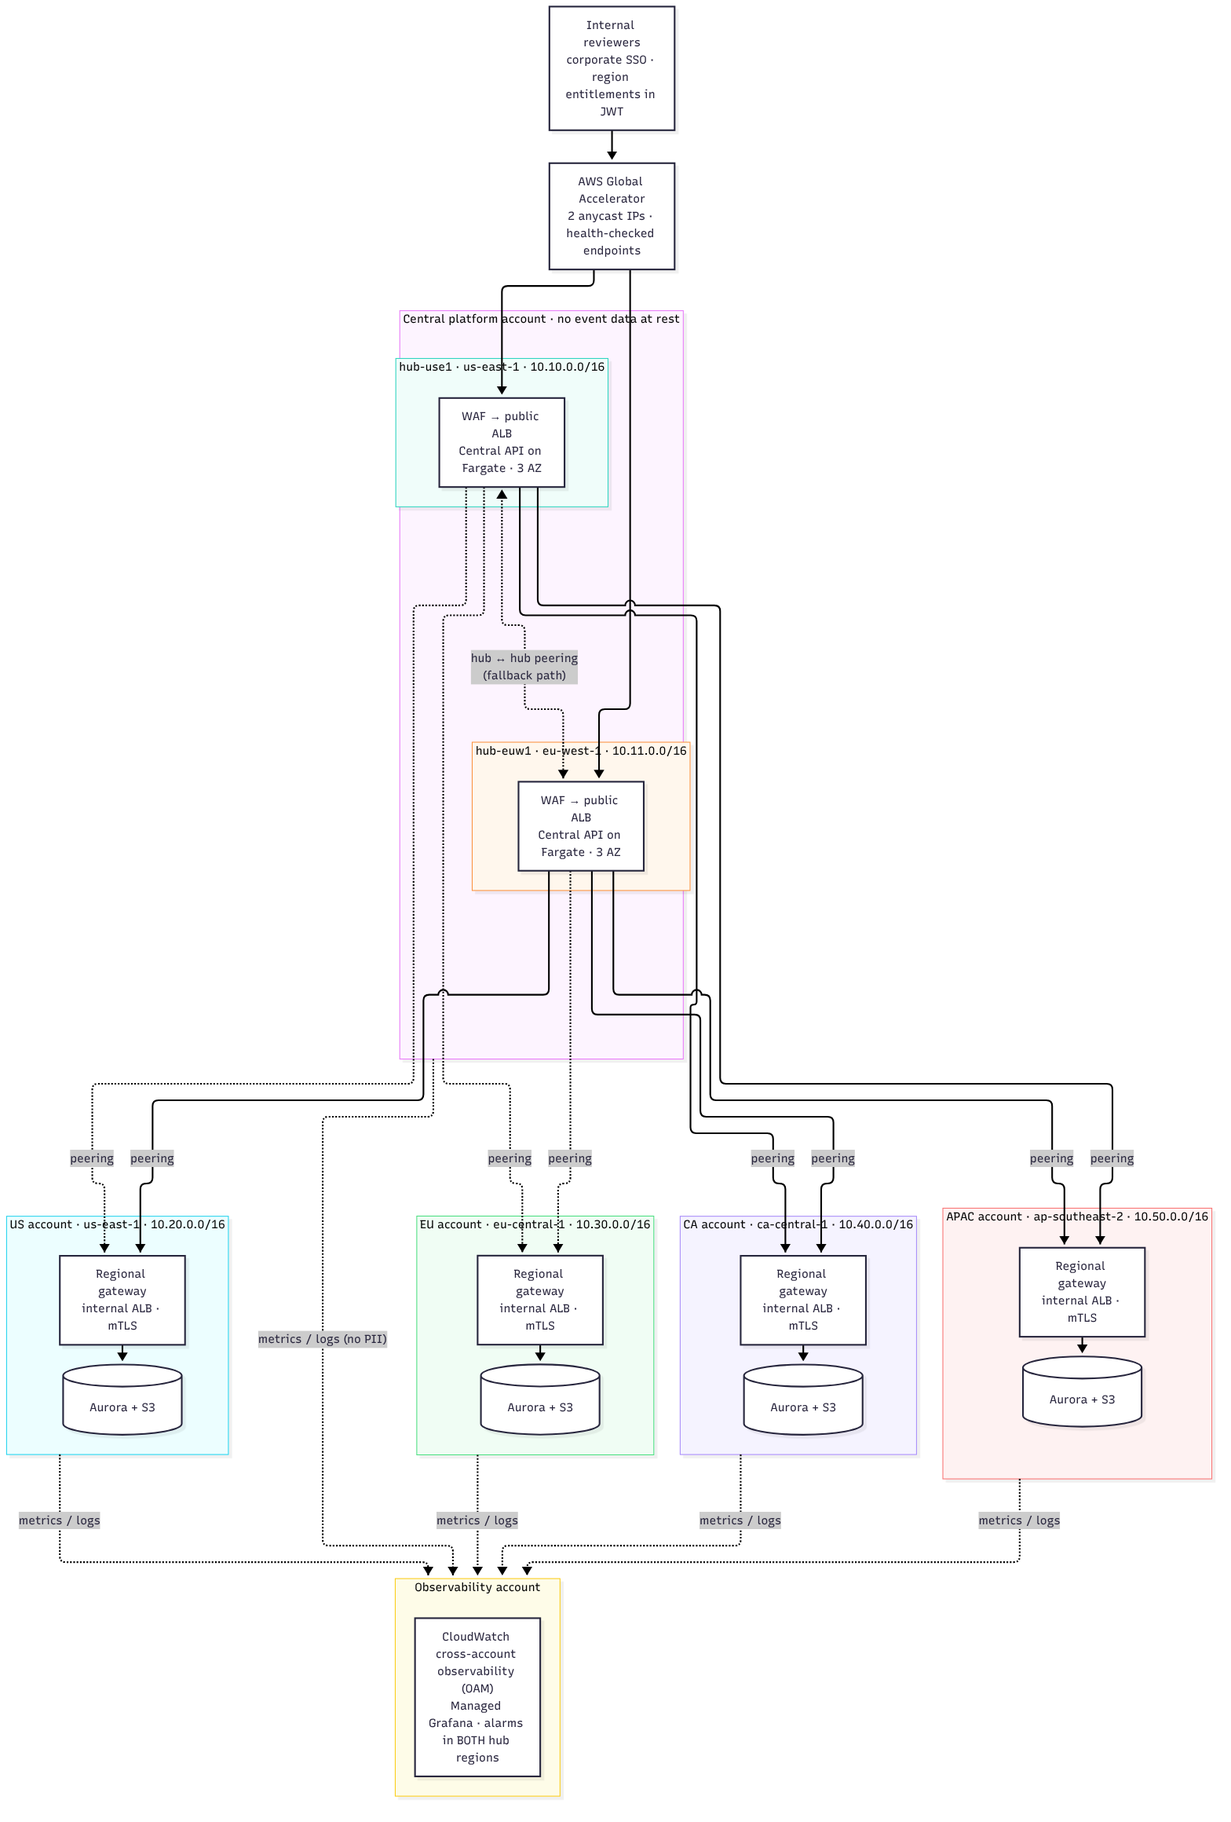
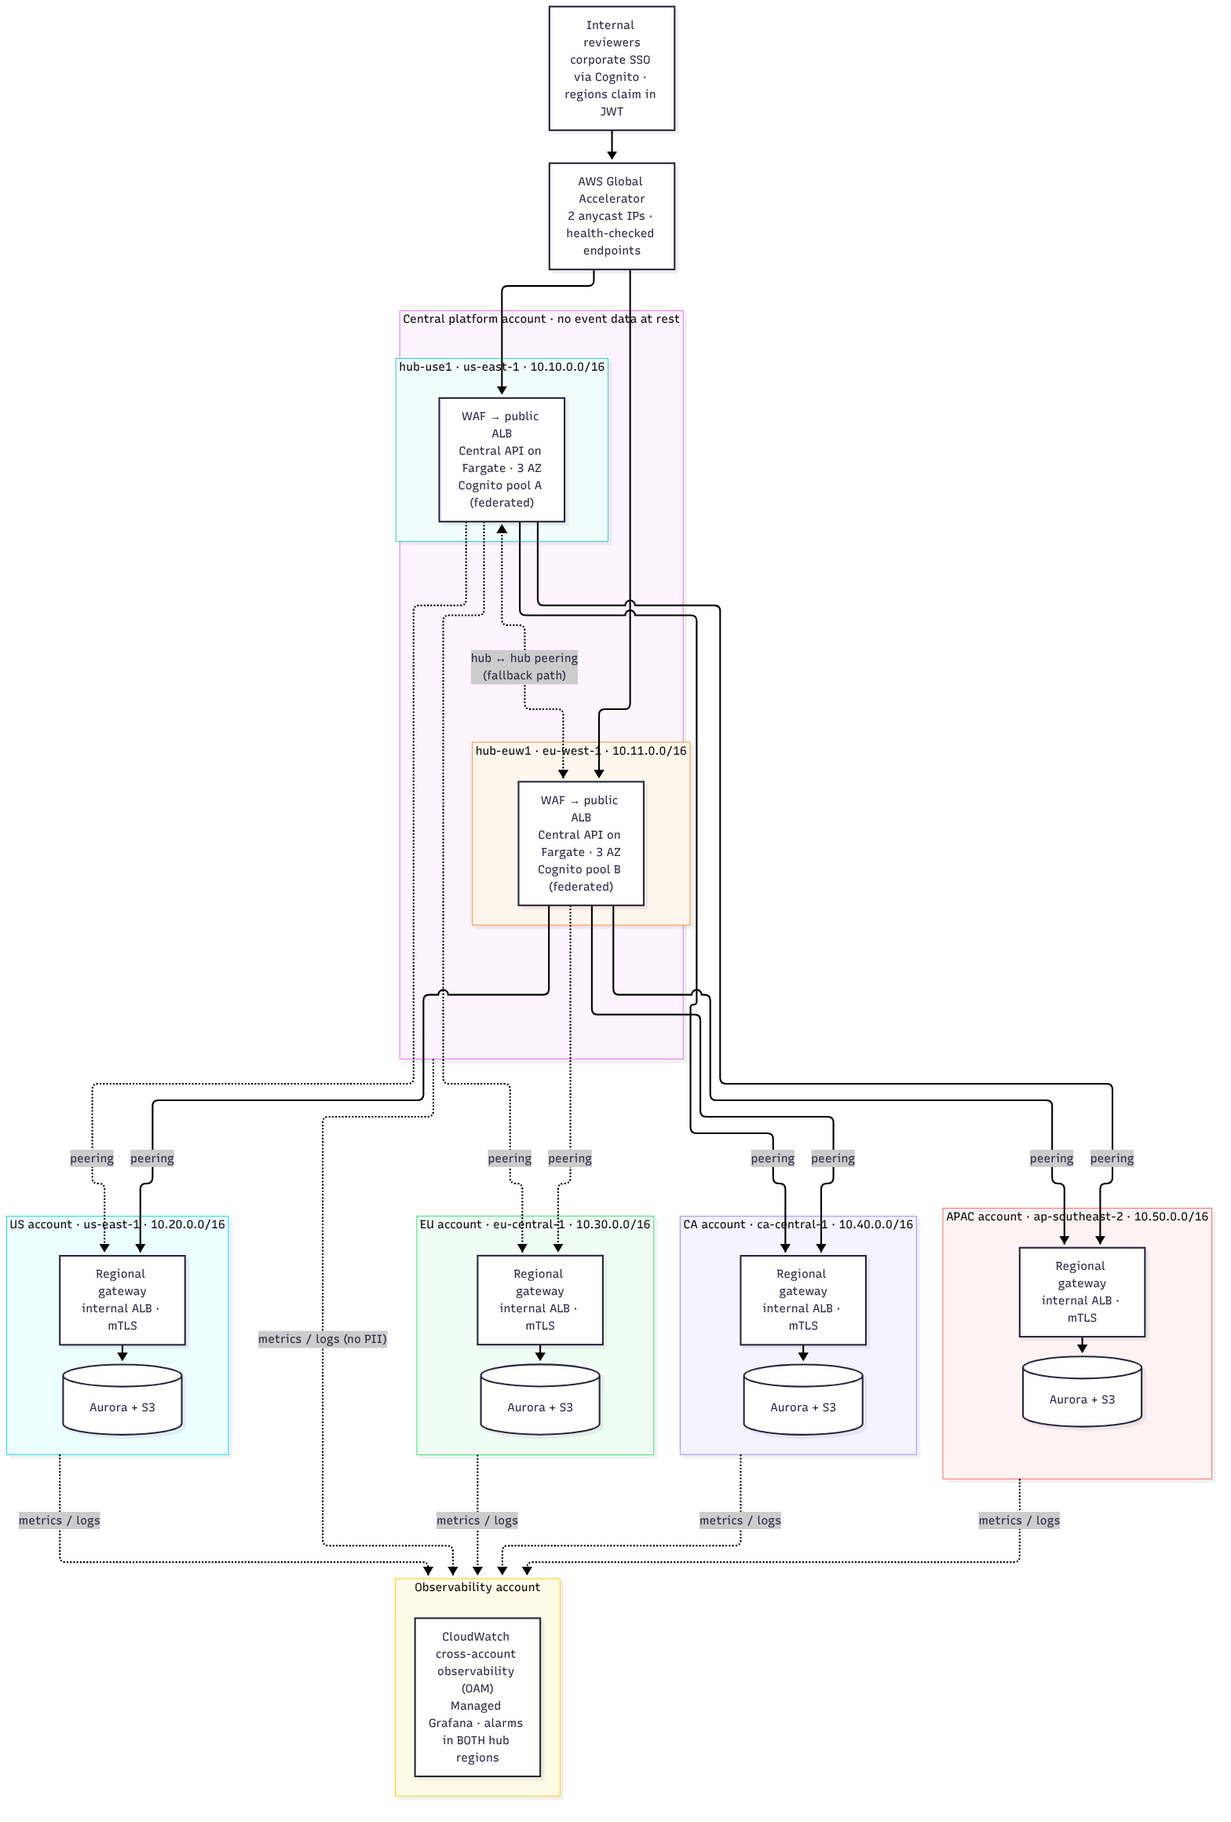
Identity: Cognito user pool per hub, federated to corporate IdP
Keeps the regional stacks' Cognito/JWT model while avoiding a single
identity region: tokens from either hub pool are accepted by both hubs
and all regional gateways. Global Accelerator + ALB stays as the front
door for six-nines failover. Adds ADR-0005; updates design doc,
diagrams, README and SG comments.

Changed region(s): [[0.3438, 0.2483, 0.4688, 0.3414], [0.4062, 0.4655, 0.5312, 0.5276], [0.4688, 0.031, 0.5312, 0.0621]]

diff --git a/docs/architecture.md b/docs/architecture.md
@@ -16,6 +16,7 @@ Internal teams need one place to review and rate edge-device events. The event d
 | What the center can reach | A regional gateway in an interconnect subnet, never the database | Keeps credentials, schema, authorization and audit inside the jurisdiction. Routes writes by construction. See [ADR-0002](adr/0002-regional-gateway-not-direct-db.md). |
 | Availability model | Two active-active stateless hubs, failure-oblivious retries, per-region degradation | Six nines is only reachable if no single region, path or deploy can cause an error a user sees. See [ADR-0003](adr/0003-six-nines-scope.md). |
 | Address plan | One reviewed `network-plan.yaml`; subnet CIDRs derived from it | Peering requires non-overlapping CIDRs, and every route and SG rule must be precise. See [ADR-0004](adr/0004-ip-address-plan.md). |
+| Identity | Amazon Cognito user pool per hub, both federated to the corporate IdP; tokens from either pool accepted by both hubs and every regional gateway | Reuses the regional stacks' Cognito/JWT model without making one region's pool a single point of failure. See [ADR-0005](adr/0005-identity-cognito-per-hub.md). |
 | Residency enforcement | SCP region-lock + no data at rest centrally + regional KMS + in-region audit | Residency is enforced by the platform, not by convention. |
 
 ---
@@ -28,7 +29,7 @@ Internal teams need one place to review and rate edge-device events. The event d
 
 1. **The center may *process* regional data in transit but must not *store* it.** Viewing EU data from a hub outside the EU is still a cross-border access under GDPR. The legal basis (SCCs/DPF, DPA with the client) is a legal decision, not a network one. The design supports both answers. Reviewers can be pinned to the in-jurisdiction hub (EU reviewers → `eu-west-1`), and if Legal requires it, EU-bound calls can be restricted to the EU hub with one SG and route change.
 2. **Video is the heavy, sensitive part.** Clips are served from the regional S3 bucket via presigned URL and never proxied centrally.
-3. **Reviewers are internal staff** authenticated by the corporate IdP (Okta/Entra-style SSO). Region entitlements come from IdP group claims (`regions: ["eu","us"]`).
+3. **Reviewers are internal staff** with accounts in the corporate IdP (Okta/Entra-style SSO). They sign in through a **Cognito user pool in each hub**, federated to that IdP, matching how the regional stacks already authenticate with Cognito. IdP group membership maps to a `regions` claim (`["eu","us"]`) in the Cognito token.
 4. **The regional stacks exist.** The spoke stack is written greenfield for clarity. In practice it imports the existing VPC and *adds* the interconnect tier, gateway SG and guardrails (see `live/prod/spoke/main.tf`).
 5. **CIDRs can be made non-overlapping.** If an existing spoke overlaps and can't be re-addressed, that spoke uses PrivateLink instead of peering (ADR-0001). The interconnect-tier contract stays the same.
 6. **Region choice:** US `us-east-1`, EU `eu-central-1`, CA `ca-central-1`, APAC `ap-southeast-2`. Each also has an in-jurisdiction DR region reserved (`us-west-2`, `eu-west-1`, `ca-west-1`, `ap-southeast-4`). APAC residency is country-specific; "APAC" is treated as one jurisdiction (Australia) here, and other APAC countries become new spokes. `hub-use1` and the US spoke share `us-east-1`, so that one peering is intra-region rather than inter-region. That is deliberate: the busiest region gets the lowest latency, and the `vpc_peering` module handles both cases. The design does not rely on it, because security groups use CIDRs everywhere for consistency, even where same-region SG references would be possible.
@@ -44,17 +45,17 @@ Internal teams need one place to review and rate edge-device events. The event d
 
 ```mermaid
 flowchart TB
-    users["Internal reviewers<br/>corporate SSO · region entitlements in JWT"]
+    users["Internal reviewers<br/>corporate SSO via Cognito · regions claim in JWT"]
     ga["AWS Global Accelerator<br/>2 anycast IPs · health-checked endpoints"]
     users --> ga
 
     subgraph CENTRAL["Central platform account · no event data at rest"]
         direction LR
         subgraph HUB1["hub-use1 · us-east-1 · 10.10.0.0/16"]
-            api1["WAF → public ALB<br/>Central API on Fargate · 3 AZ"]
+            api1["WAF → public ALB<br/>Central API on Fargate · 3 AZ<br/>Cognito pool A (federated)"]
         end
         subgraph HUB2["hub-euw1 · eu-west-1 · 10.11.0.0/16"]
-            api2["WAF → public ALB<br/>Central API on Fargate · 3 AZ"]
+            api2["WAF → public ALB<br/>Central API on Fargate · 3 AZ<br/>Cognito pool B (federated)"]
         end
     end
     ga --> api1
@@ -119,9 +120,10 @@ sequenceDiagram
     participant DB as Aurora EU (reader / writer)
     participant S3 as S3 EU (video)
 
+    Note over R,H: Sign-in: the hub's Cognito pool federates to the corporate IdP (SSO + MFA).<br/>Tokens from either hub's pool are accepted by both hubs and all gateways.
     R->>GA: GET /events?region=eu (JWT)
     GA->>H: nearest healthy hub
-    H->>H: validate JWT · regions claim contains "eu" · rate limit
+    H->>H: validate JWT (issuer = pool A or B) · regions claim contains "eu" · rate limit
     H->>G: mTLS over peering · forwards end-user identity
     G->>G: authorize again · write access-audit record (stays in EU)
     G->>DB: query via READER endpoint
@@ -231,7 +233,7 @@ Cross-region peering does **not** support referencing security groups in the pee
 | Keys leaving the region | KMS keys are single-region, created in the regional account, and never shared with the hub account | SCP + key policies |
 | Who saw what | Every read is audited **in the owning region** (user, event, time, source hub). The regional DPO can query it without depending on the center. | Regional gateway |
 | Regions reaching each other | No spoke↔spoke peering, peering is non-transitive, and spoke accounts may only accept peering from hub-account VPCs (SCP `ec2:RequesterVpc`) | Topology + SCP |
-| Least-privilege human access | JWT `regions` claim from IdP groups, checked twice: hub (coarse) and regional gateway (authoritative) | Central API + gateway |
+| Least-privilege human access | JWT `regions` claim (IdP groups mapped by Cognito), checked twice: hub (coarse) and regional gateway (authoritative) | Central API + gateway |
 
 If Legal decides EU data may only be processed by EU infrastructure, the change is small: drop `hub-use1` from the EU gateway SG and peering. EU-entitled reviewers then always land on `hub-euw1`, which keeps its fallback path for every other region. Because addressing and access are plan-driven, that is a one-line PR.
 
@@ -241,7 +243,7 @@ If Legal decides EU data may only be processed by EU infrastructure, the change 
 
 | Principal | Lives in | Can do | Cannot do |
 |---|---|---|---|
-| Reviewer (human) | Corporate IdP | Call the central API with a JWT carrying `regions` entitlements | Reach any regional network or AWS API directly |
+| Reviewer (human) | Corporate IdP, federated through a Cognito pool per hub | Call the central API with a JWT carrying `regions` entitlements | Reach any regional network or AWS API directly |
 | Central API task role | Hub account | Read its mTLS client cert, write metrics/logs | Assume any role in regional accounts. It holds **no** cross-account IAM to data. |
 | Regional gateway task role | Each regional account | `rds-db:connect` (IAM DB auth: reader user and a narrowly-scoped writer user for ratings), `s3:GetObject` on the event bucket (for presigning), write the access-audit log | Anything outside its region (SCP) |
 | `terraform-network-deployer` | Every account | Network + monitoring plumbing, assumed only by the CI pipeline role, which itself trusts only this repository's GitHub OIDC subject | Data plane: denied `rds:*`, `rds-db:connect`, `secretsmanager:GetSecretValue`, `kms:Decrypt` and event-bucket objects by permissions boundary |
@@ -283,7 +285,8 @@ A region outage then degrades gracefully. Reviewers see "EU temporarily unavaila
 | Regional gateway / region down | `region_unreachable` alarm (both hubs) | None centrally by design; regional DR if enabled | That region unavailable, others unaffected |
 | Peering/route/SG deleted out of band | Probe + out-of-band-change alert + Terraform drift | Other hub covers; restore with `apply` | None while one path remains |
 | Global Accelerator degradation | External synthetic checks (outside AWS) | Clients fall back to per-hub DNS names | Seconds |
-| IdP outage | Login error rate | Existing tokens valid until expiry (JWKS cached) | New logins blocked |
+| One hub's Cognito pool impaired | Sign-in error rate per hub | New sign-ins go through the other hub's pool; issued tokens keep working on both hubs | None for signed-in users |
+| Corporate IdP outage | Sign-in error rate on both hubs | Existing tokens valid until expiry (keys cached) | New sign-ins blocked |
 | Bad deploy | Per-hub canary metrics | Automatic rollback, other hub untouched | Retried requests |
 
 ---
@@ -309,15 +312,23 @@ Giving the central API read access straight to each Aurora cluster would look si
 
 One hub cannot reach six nines (§8). Two hubs in different jurisdictions also give EU reviewers an EU processing path (`eu-west-1`) and everyone else a North American one (`us-east-1`). A third hub (e.g. `ap-southeast-2`) can be added when APAC review volume justifies it: one plan entry and four peering blocks.
 
-### 9.4 Hub front door: ALB + corporate IdP rather than API Gateway + Cognito
+### 9.4 Front door and identity: what we kept from the regional stacks, and what we changed
 
-The regional stacks use API Gateway with Cognito, and they keep it: that path serves devices and clients and is untouched. The hubs serve *internal staff* and deviate on purpose:
+The regional stacks use API Gateway secured by Cognito. The hubs **keep Cognito** and **replace API Gateway with Global Accelerator + ALB**.
 
-- **Global Accelerator endpoints must be ALB, NLB, EC2 or Elastic IPs.** API Gateway can't be a GA endpoint, and putting GA in front of an ALB is what gives the hubs sub-minute, DNS-free failover (§8).
-- **Cognito user pools are regional.** A pool in one hub region would be a single point of failure for logins on both hubs. Staff already live in the corporate IdP (SSO, MFA, group-based entitlements), so the hubs trust that issuer directly and validate JWTs locally against cached keys. Each hub authenticates on its own.
-- WAF attaches to the ALB exactly as it does to API Gateway, so edge protection is unchanged.
+**Kept: Cognito and its JWT model.** Teams already know how to run it, and the regional stacks already validate Cognito tokens and claims. The one problem is that a user pool is regional, so a single pool would be a single point of failure for both hubs. The answer is **one pool per hub**:
 
-**Alternative if consistency with the regional stacks matters more:** keep API Gateway and Cognito in each hub. Give each hub its own user pool, both federated to the corporate IdP, and have the regional gateway trust both issuers, so no single pool is a point of failure. The cost is the front door: without Global Accelerator, failover between hubs falls back to Route 53 health checks and DNS TTLs, typically tens of seconds or more per event. That alone exceeds the yearly six-nines budget unless clients retry on the other hub themselves. I chose ALB + GA for that reason, and would revisit it if the team's operational familiarity with API Gateway outweighs it.
+- Both pools federate to the corporate IdP (SAML/OIDC), so staff still have one SSO login with MFA.
+- Both pools are configured identically by Terraform, including the mapping from IdP groups to a `regions` claim.
+- The central API and every regional gateway accept tokens from **either** pool (two trusted issuers, two cached key sets). A user signed in through hub A whose next request lands on hub B is served without a new sign-in. That is what keeps hub failover invisible (§8).
+- Tokens are validated **in the service**, not with the ALB's built-in Cognito sign-in action, which binds a session to one pool and would force a re-login on failover.
+- Refresh tokens are pool-specific. After a failover, the access token keeps working until it expires, then the client does a silent SSO redirect through the surviving hub's pool. The user sees a page reload at most, never an error.
+
+**Changed: API Gateway → Global Accelerator + ALB.**
+
+- **Global Accelerator endpoints must be ALB, NLB, EC2 or Elastic IPs**, so API Gateway can't sit behind it. GA is what gives the hubs anycast, DNS-free failover between regions.
+- Without GA, failover would rely on Route 53 health checks and DNS TTLs, typically tens of seconds or more per event, which alone exceeds the yearly six-nines budget. CloudFront origin failover only retries reads, not the POST that submits a rating.
+- WAF attaches to the ALB exactly as it does to API Gateway, so edge protection is unchanged. Per-route throttling moves from API Gateway usage plans to WAF rate-based rules and the service itself.
 
 ### 9.5 Global Accelerator rather than Route 53 latency/failover
 
@@ -328,7 +339,7 @@ DNS failover is bounded by TTLs and resolver caching that we don't control. GA g
 ## 10. Security considerations (by layer)
 
 - **Edge:** AWS WAF on the hub ALBs (managed rule groups, rate-based rules, geo/IP allow-list for corporate egress). Shield Advanced on GA. TLS 1.2+ only.
-- **Identity:** corporate IdP SSO with MFA and short-lived JWTs. Region entitlements from IdP groups, checked at hub and gateway. No long-lived credentials anywhere; CI uses OIDC.
+- **Identity:** a Cognito user pool per hub, federated to the corporate IdP (SSO + MFA), with short-lived access tokens. Region entitlements come from IdP groups via the `regions` claim and are checked at the hub and again at the gateway. Both hubs and all gateways trust exactly the two hub pools as issuers. No long-lived credentials anywhere; CI uses OIDC.
 - **Transit:** inter-region peering traffic is encrypted by AWS on the backbone. On top of that, TLS 1.3 mTLS between hub and gateway with Private-CA-issued short-lived certs, so the network path is never trusted on its own.
 - **Network:** subnet-precise routes, default-deny egress SGs, data-tier NACLs, default SG stripped (CIS), no public IPs by default, VPC endpoints for AWS APIs, NAT egress fronted by AWS Network Firewall domain allow-listing in production.
 - **Data at rest:** regional KMS keys with rotation. Flow logs and SNS encrypted with CMKs. Nothing sensitive at rest centrally.
@@ -372,4 +383,4 @@ Inter-region RTTs range from tens of milliseconds (US↔CA) to roughly 200+ ms (
 | Six nines depends on client retry behavior | Ship an internal client SDK with the retry budget and hub fallback built in. Measure SLO at the edge after retries. |
 | Probe-based detection has blind spots | Combine with real-traffic RED metrics and a negative reachability test in CI (see monitoring doc) |
 
-**Implemented in this repo vs designed only.** Implemented: VPC module (tiers, per-tier routing, NAT, endpoints, NACL, flow logs), cross-account cross-region peering module, SG modules, connectivity probe, correlated alerting, change guardrails, deployer IAM role with boundary, SCPs, live stacks for 2 hubs, 4 spokes and the full peering mesh. Designed only: central API and regional gateway services, GA/ALB/WAF, Private CA, private hosted zones, OAM wiring, Grafana dashboards.
+**Implemented in this repo vs designed only.** Implemented: VPC module (tiers, per-tier routing, NAT, endpoints, NACL, flow logs), cross-account cross-region peering module, SG modules, connectivity probe, correlated alerting, change guardrails, deployer IAM role with boundary, SCPs, live stacks for 2 hubs, 4 spokes and the full peering mesh. Designed only: central API and regional gateway services, GA/ALB/WAF, the per-hub Cognito pools, Private CA, private hosted zones, OAM wiring, Grafana dashboards.

diff --git a/README.md b/README.md
@@ -2,13 +2,13 @@
 
 Terraform and design documents for a **centralized observability platform** that lets internal teams review and rate edge-device events stored in **data-resident regional AWS stacks** (US, EU, CA, APAC), without moving that data out of its jurisdiction.
 
-> **Start here:** [`docs/architecture.md`](docs/architecture.md) (design, diagrams, security, decisions) · [`docs/monitoring.md`](docs/monitoring.md) (metrics and alerting) · [`docs/deployment.md`](docs/deployment.md) (module organization and rollout) · [`docs/adr/`](docs/adr) (decision records)
+> **Start here:** [`docs/architecture.md`](docs/architecture.md) (design, diagrams, security, decisions) · [`docs/monitoring.md`](docs/monitoring.md) (metrics and alerting) · [`docs/deployment.md`](docs/deployment.md) (module organization and rollout) · [`docs/adr/`](docs/adr) (decision records, including [ADR-0005](docs/adr/0005-identity-cognito-per-hub.md) on identity)
 
 ## The design at a glance
 
 ```mermaid
 flowchart LR
-    U["Reviewers (SSO)"] --> GA["Global Accelerator"]
+    U["Reviewers (SSO via Cognito)"] --> GA["Global Accelerator"]
     GA --> H1["hub-use1<br/>central API · stateless"]
     GA --> H2["hub-euw1<br/>central API · stateless"]
     H1 <-.-> H2
@@ -92,7 +92,7 @@ module "peer_hub_euw1_spoke_eu" {
 ## Assumptions (full list in the design doc §2)
 
 - The center may *process* regional data in transit but must not *store* it. The legal basis for cross-border access is Legal's call, and the design can pin a jurisdiction to its own hub with a one-line change.
-- Reviewers are internal staff on the corporate IdP. Region entitlements come from IdP groups.
+- Reviewers are internal staff signing in through a Cognito user pool in each hub, federated to the corporate IdP. Region entitlements come from IdP groups.
 - Regional CIDRs can be made non-overlapping. Any spoke that can't uses PrivateLink instead ([ADR-0001](docs/adr/0001-connectivity-vpc-peering.md)).
 - Monitoring data has no PII (given), and services log IDs, never payloads.
 

diff --git a/docs/adr/0005-identity-cognito-per-hub.md b/docs/adr/0005-identity-cognito-per-hub.md
@@ -1,0 +1,25 @@
+# ADR-0005: Cognito user pool per hub, federated to the corporate IdP
+
+**Status:** Accepted · **Date:** 2026-11
+
+## Context
+
+The regional stacks authenticate with Amazon Cognito (bearer tokens, JWT claims). Reviewers of the central platform are internal staff whose identities live in the corporate IdP. Cognito user pools are regional, while the platform runs two active-active hubs in different regions and must fail over between them without user-visible errors (ADR-0003).
+
+## Options considered
+
+| Option | For | Against |
+|---|---|---|
+| Trust the corporate IdP directly | No regional identity dependency | Introduces a second token model next to the regional stacks' Cognito; group-to-claim mapping lives outside AWS |
+| One Cognito pool for both hubs | Matches the regional stacks | That pool's region becomes a single point of failure for sign-in on both hubs |
+| **One Cognito pool per hub, both federated to the IdP, both trusted everywhere** | Matches the regional stacks; no single identity region; one SSO login | Two pools to keep identical (Terraform); refresh tokens are pool-specific |
+
+## Decision
+
+Each hub has its own Cognito user pool, federated to the corporate IdP, with identical configuration and an IdP-group → `regions` claim mapping. Both hubs and every regional gateway accept tokens from either pool. Tokens are validated in the services, not by the ALB's Cognito sign-in action, so a session is not tied to one hub.
+
+## Consequences
+
+- A hub failure doesn't log anyone out: tokens issued by the failed hub's pool are still accepted by the surviving hub until they expire, after which a silent SSO redirect gets a token from the surviving pool.
+- One pool being impaired only affects new sign-ins through that hub. The corporate IdP remains a shared dependency for *new* sign-ins on both hubs, which was already true.
+- Pool configuration drift is the main risk; both pools come from one Terraform module with the same inputs.
